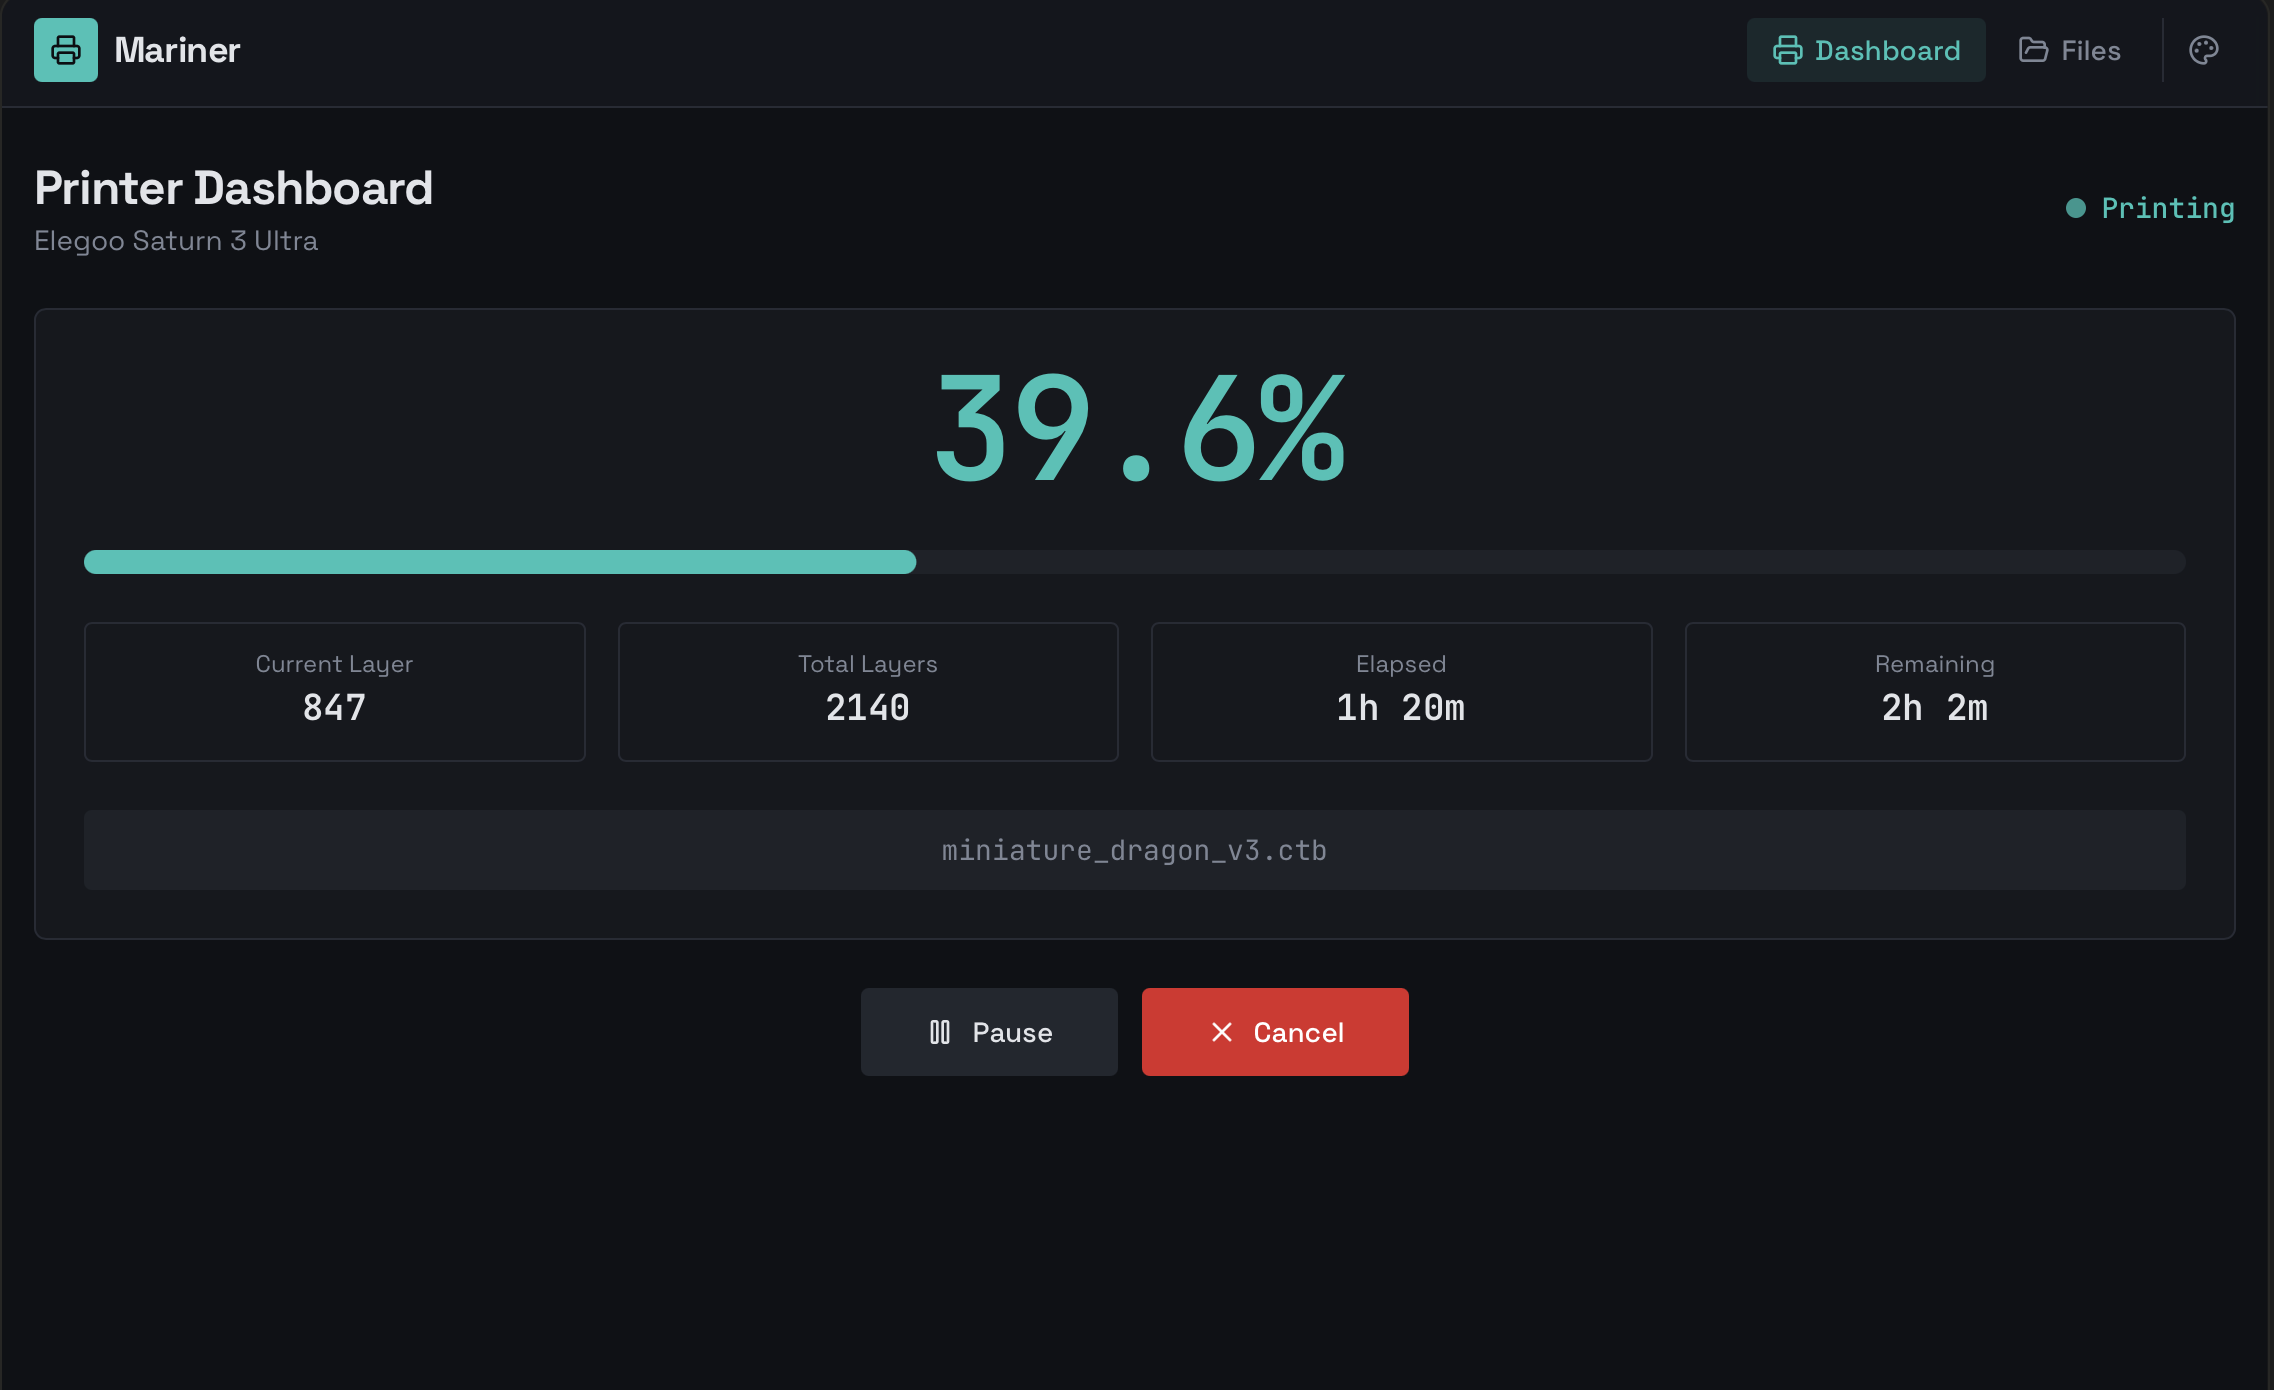
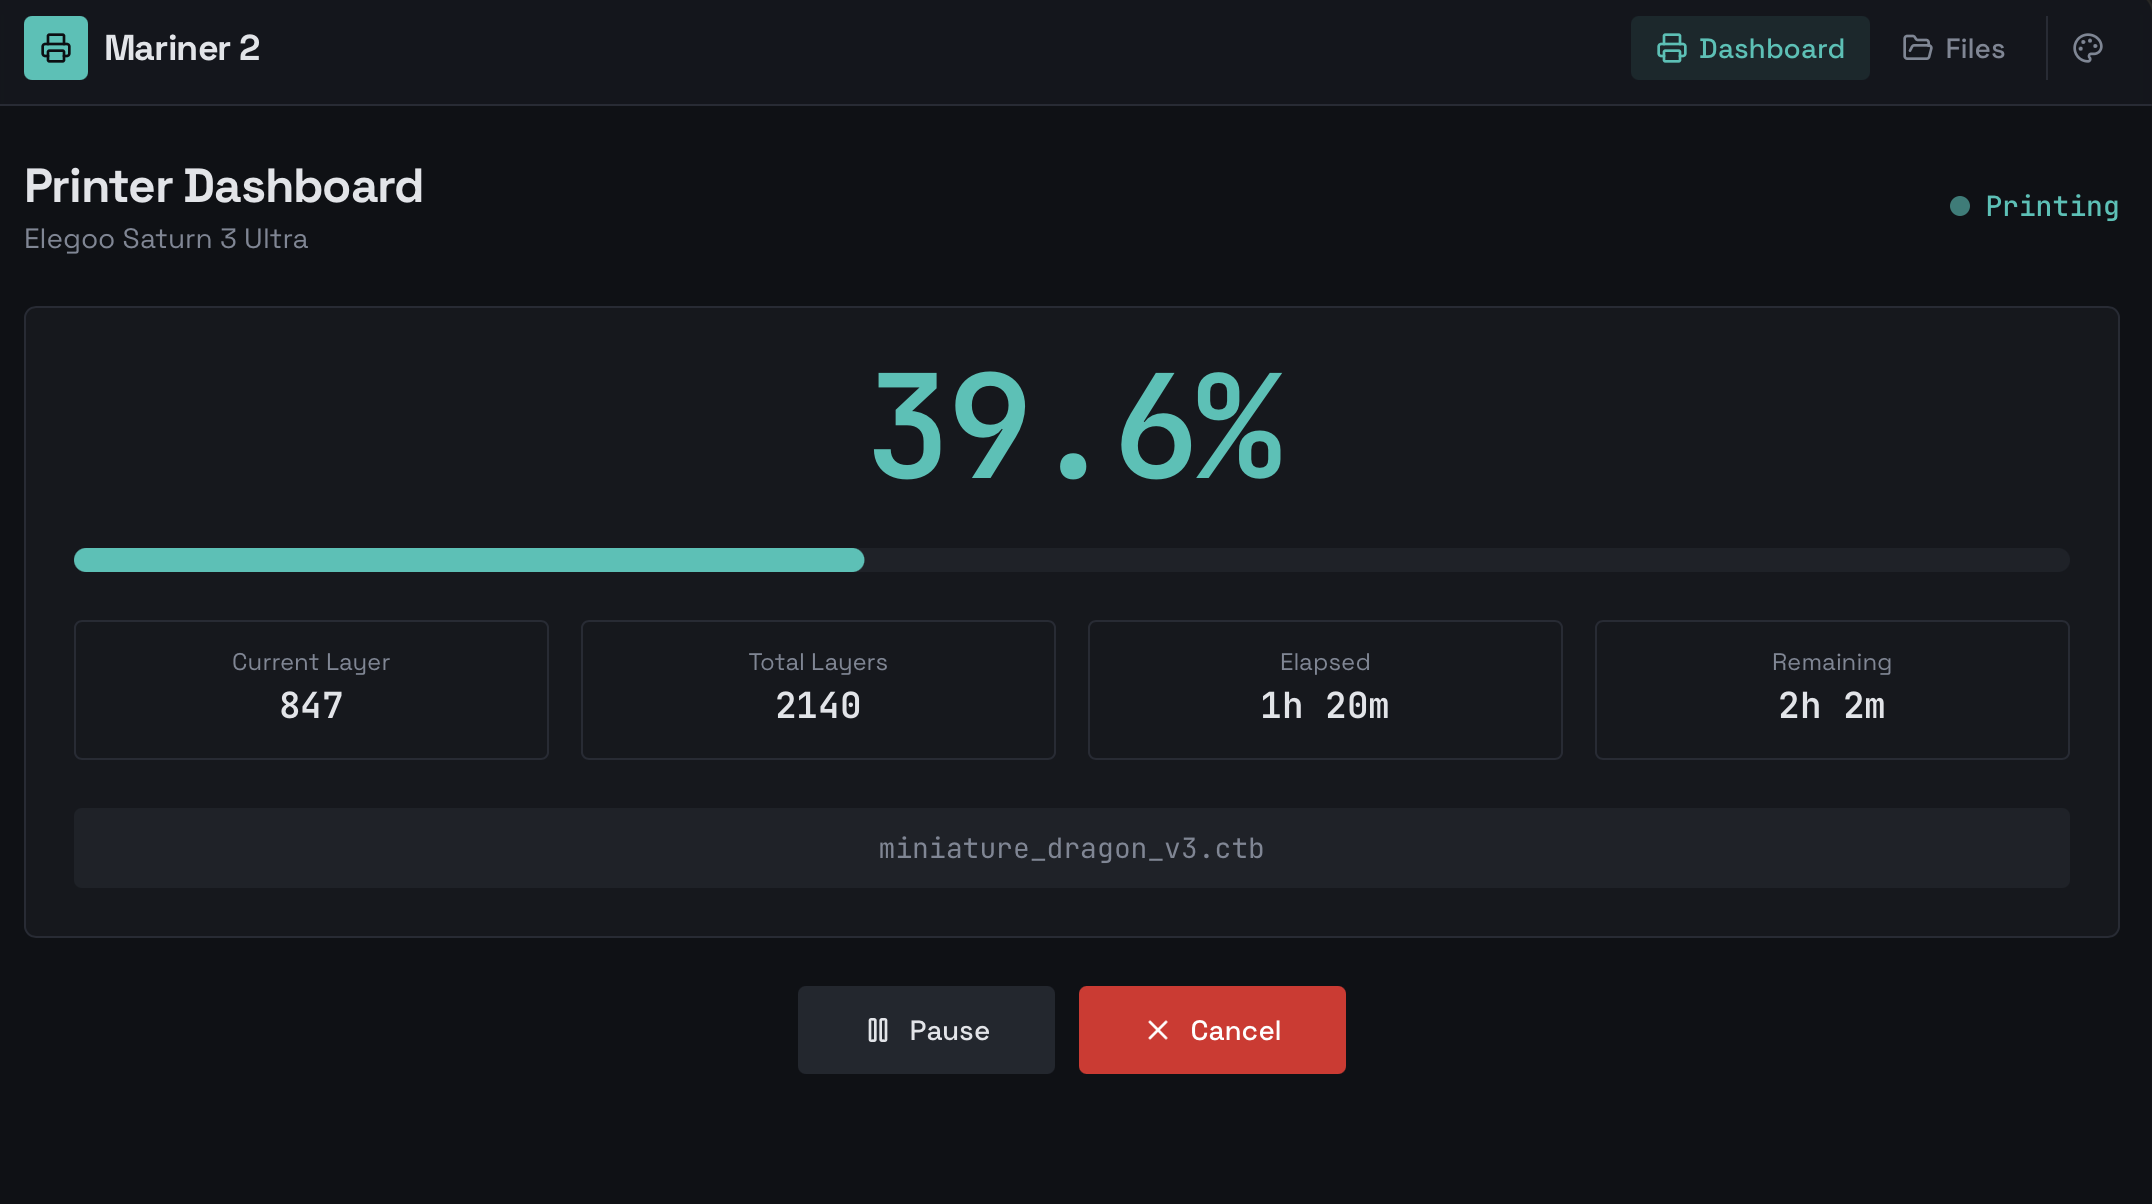
feat: update screenshot

diff --git a/README.rst b/README.rst
@@ -20,7 +20,7 @@ Features
 - *NEW* Inspect encrypted ``.ctb`` files.
 
 For more details on the feature set, refer to our `Documentation
-<https://mariner.readthedocs.io/en/latest/>`_.
+<https://mariner2.readthedocs.io/en/latest/>`_.
 
 Supported Printers
 ------------------
@@ -37,7 +37,7 @@ following manufacturers:
 - Voxelab
 
 Please refer to the list of `Supported Printers
-<https://mariner.readthedocs.io/en/latest/supported-printers.html>`_
+<https://mariner2.readthedocs.io/en/latest/supported-printers.html>`_
 on our documentation for a full list of printer models that have been tested.
 If you have access to other printers and want to contribute, please open an
 issue.  We're happy to support more printers!
@@ -46,7 +46,7 @@ Documentation
 -------------
 
 The documentation is available from `Read the Docs
-<https://mariner.readthedocs.io/en/latest/>`_. It contains a lot of information
+<https://mariner2.readthedocs.io/en/latest/>`_. It contains a lot of information
 from how to setup the hardware, install the software, troubleshoot issues, and
 how to contribute to development.
 
@@ -58,7 +58,7 @@ Elegoo Mars Pro.
 .. |CI| image:: https://github.com/amd989/mariner/workflows/CI/badge.svg
    :target: https://github.com/amd989/mariner/actions/workflows/ci.yaml
 .. |docs| image:: https://readthedocs.org/projects/mariner/badge/?version=latest
-   :target: https://mariner.readthedocs.io/en/latest/?badge=latest
+   :target: https://mariner2.readthedocs.io/en/latest/?badge=latest
 .. |codecov| image:: https://codecov.io/gh/amd989/mariner/branch/master/graph/badge.svg
    :target: https://codecov.io/gh/amd989/mariner
 .. |Python| image:: https://img.shields.io/badge/python-3.8%20%7C%203.9%20%7C%203.10-blue

diff --git a/CLAUDE.md b/CLAUDE.md
@@ -64,7 +64,7 @@ npm run lint
 
 ## Key Technical Details
 
-- Python backend uses Poetry for dependency management (Python ^3.7, !=3.9)
+- Python backend uses Poetry for dependency management (Python ^3.11)
 - Frontend uses npm with Vite, Vitest for testing
 - File format encryption/decryption handled in `mariner/file_formats/cipher.py` and `ctb_encrypted.py`
 - Flask app serves frontend static files via WhiteNoise middleware
